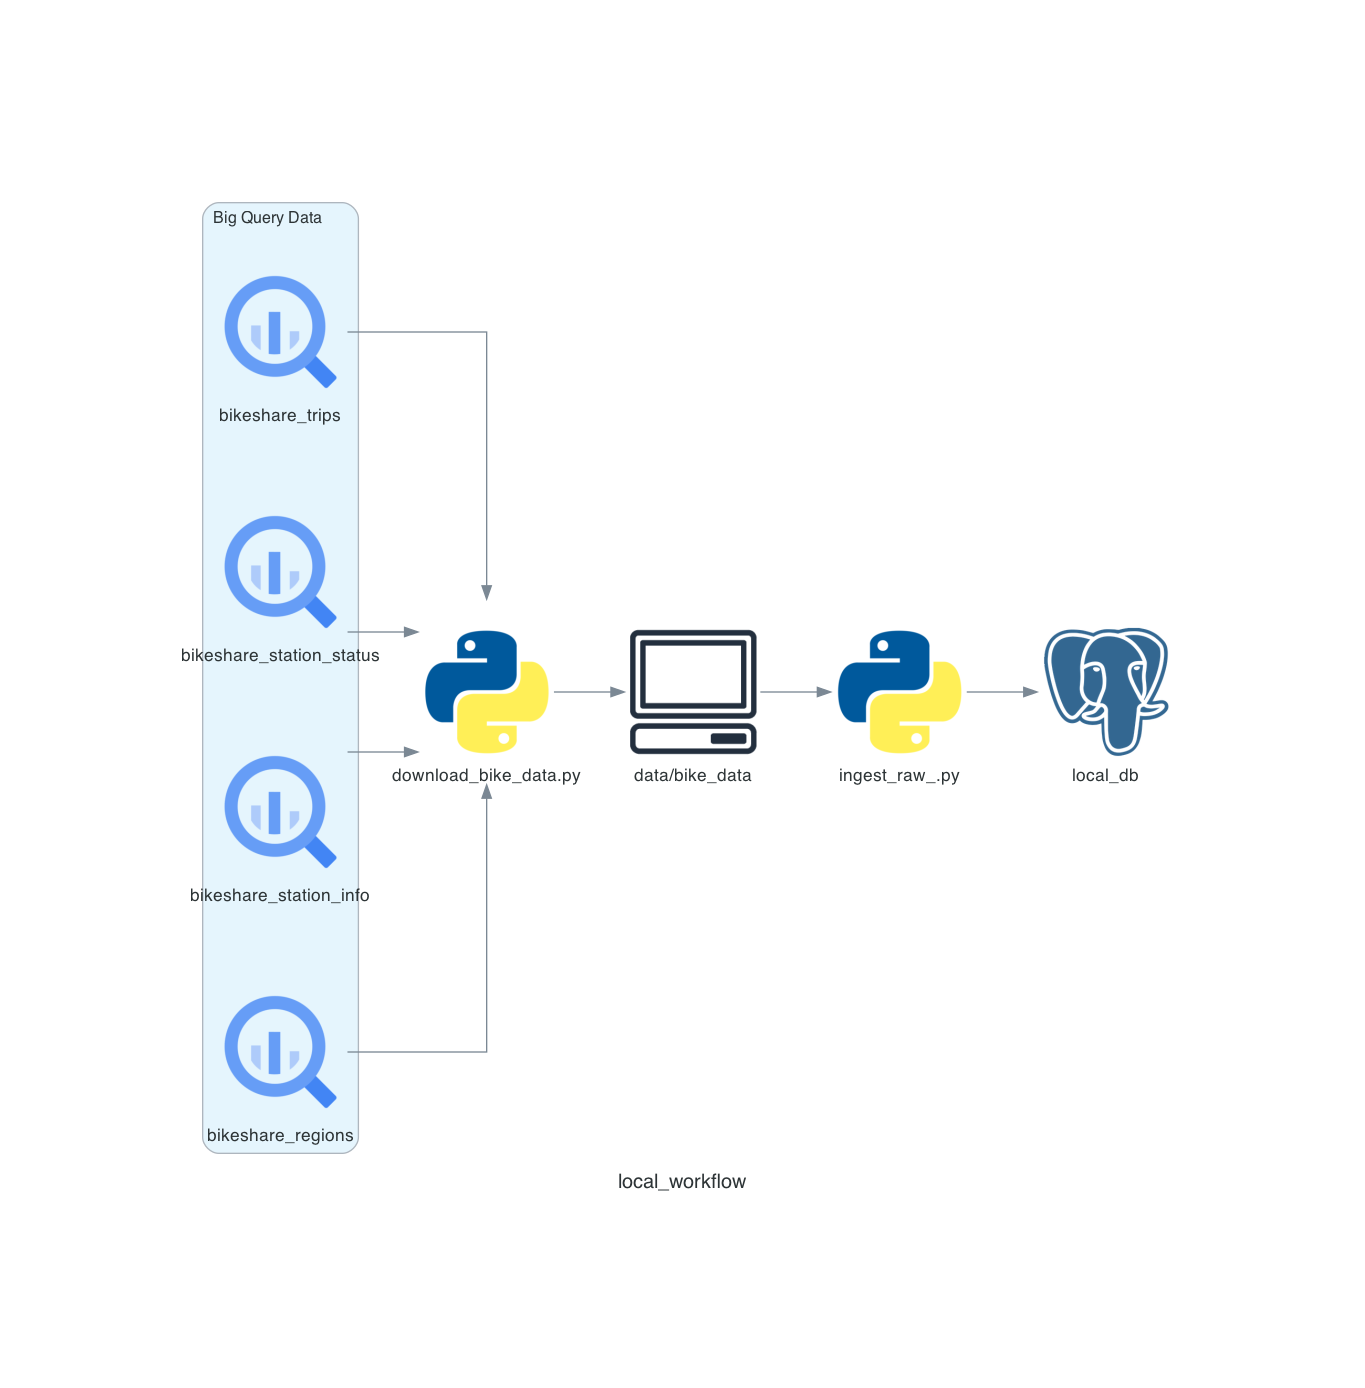
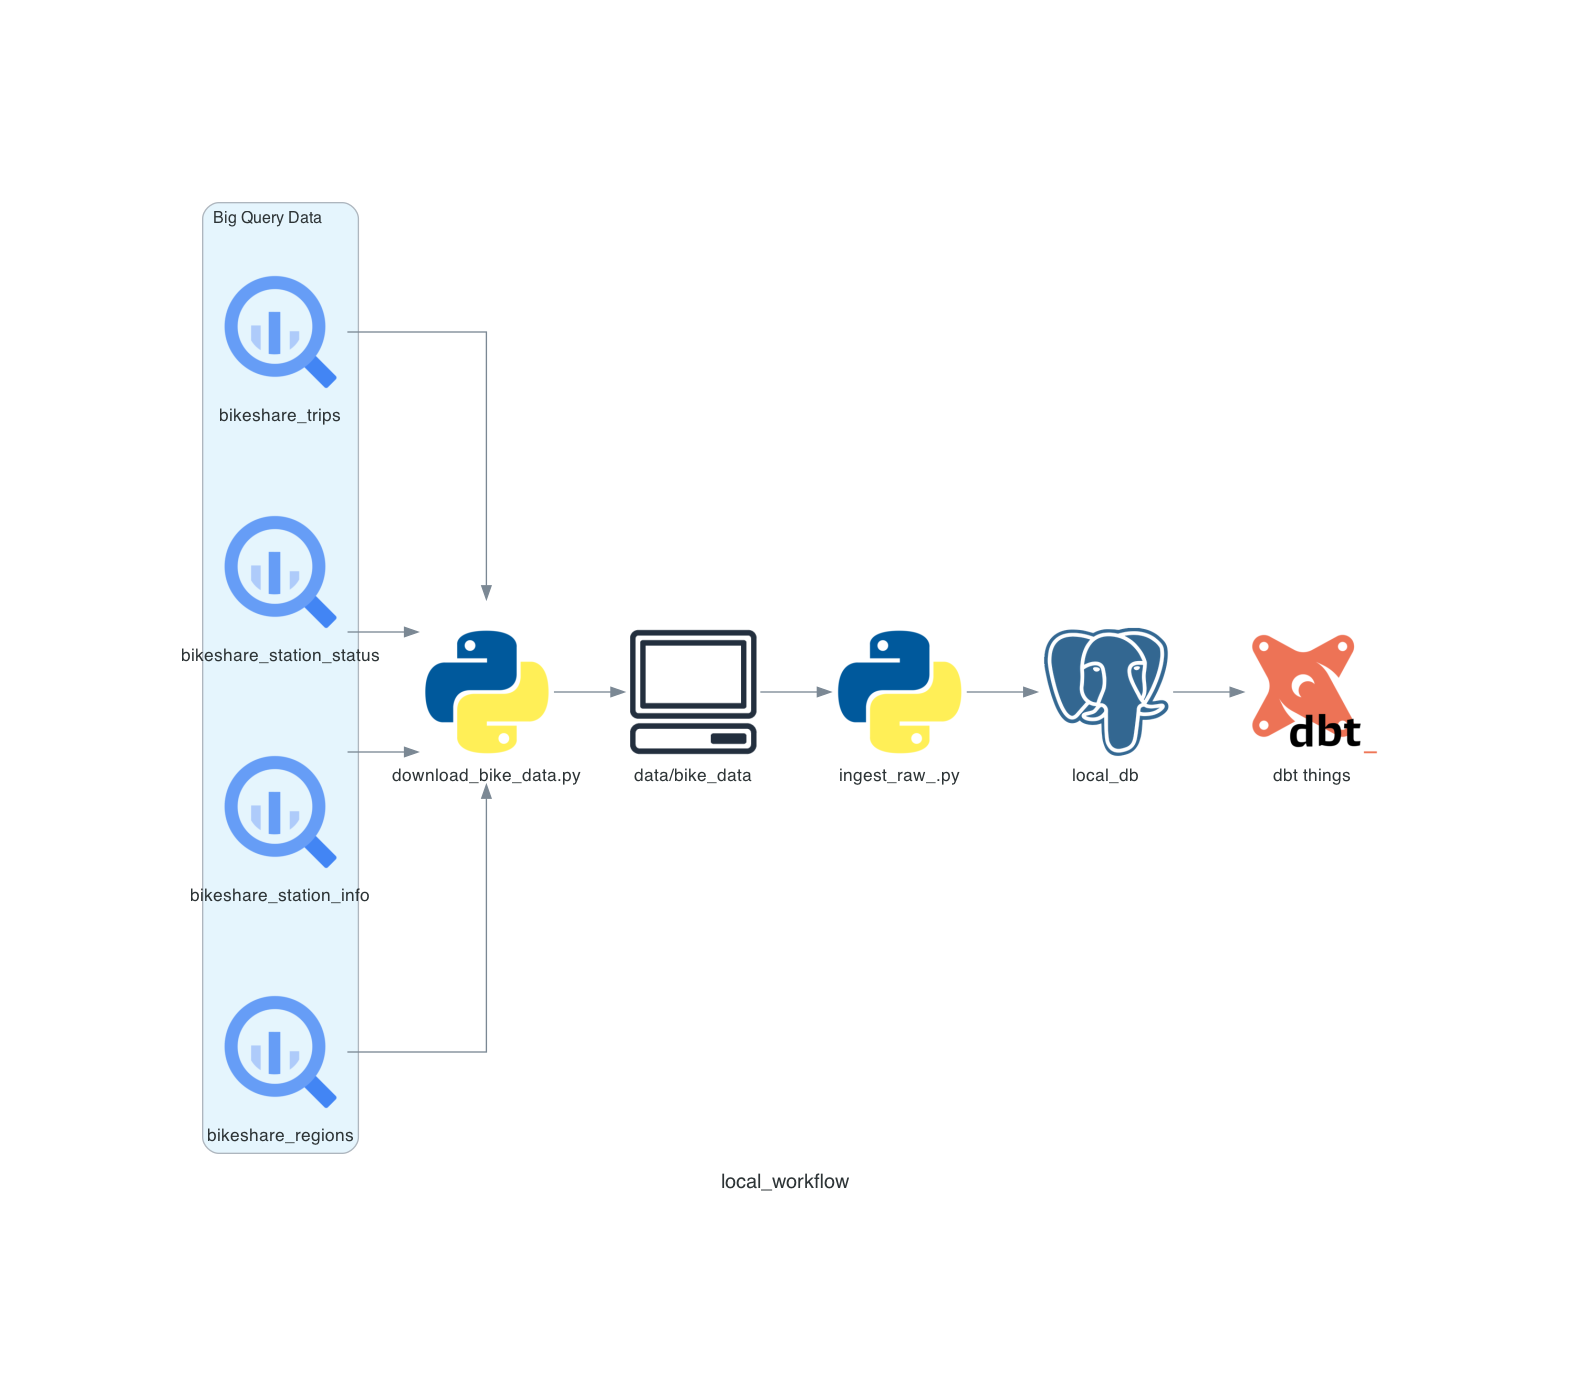
initial dbt working

Changed region(s): [[0.1231, 0.1239, 0.8615, 0.8365], [0.4615, 0.8365, 0.5538, 0.8674]]

diff --git a/diagrams/diagram.py b/diagrams/diagram.py
@@ -3,6 +3,7 @@ from diagrams.programming.language import Python
 from diagrams.gcp.analytics import BigQuery
 from diagrams.onprem.client import Client
 from diagrams.onprem.database import PostgreSQL
+from diagrams.onprem.analytics import Dbt
 
 
 with Diagram("local_workflow", show=False):
@@ -16,4 +17,5 @@ with Diagram("local_workflow", show=False):
     Python('download_bike_data.py') >> \
     Client('data/bike_data') >> \
     Python('ingest_raw_.py') >>  \
-    PostgreSQL('local_db')
+    PostgreSQL('local_db') >> \
+    Dbt('dbt things')
